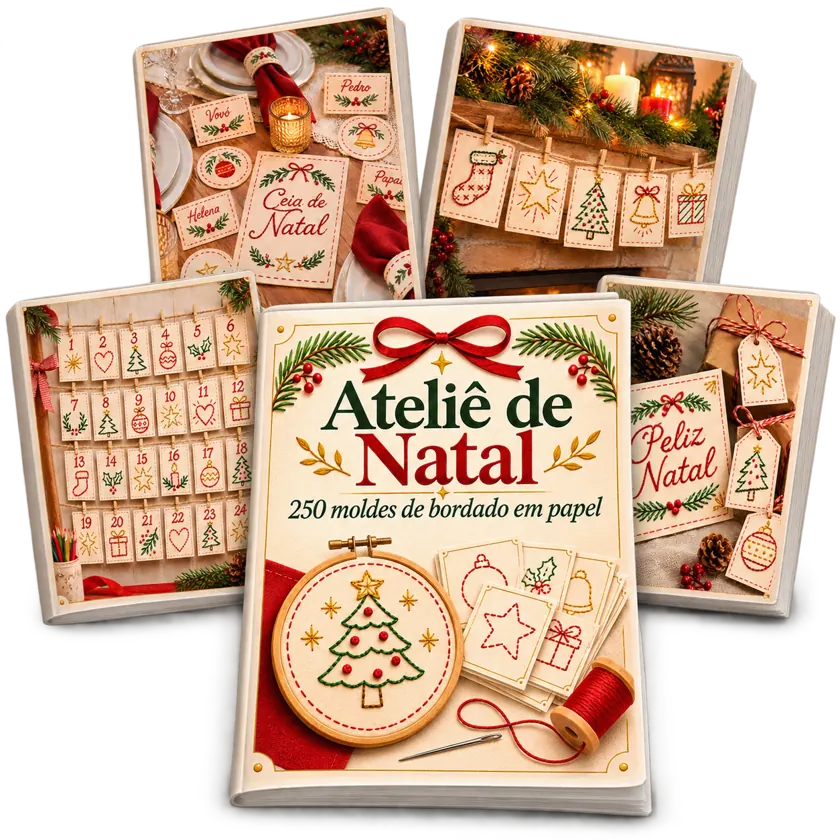
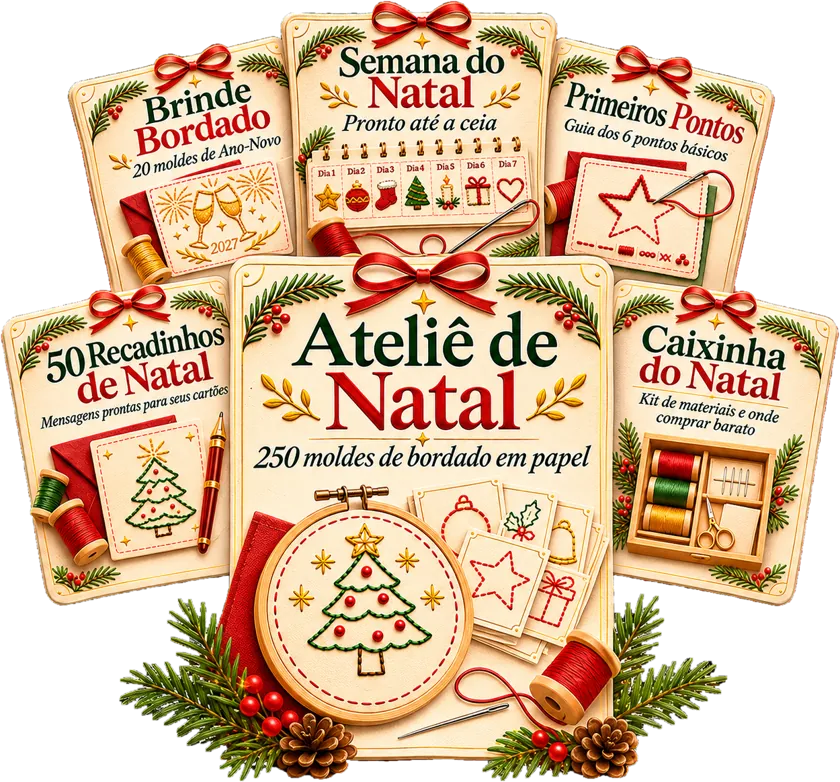
Novo mockup do kit com os 5 bônus no hero
Claude-Session: https://claude.ai/code/session_01To4oHDQjJihMuBAJ8cJRSQ

diff --git a/index.html b/index.html
@@ -42,8 +42,8 @@
     <p class="badge"><span aria-hidden="true"></span>Ateliê de Natal 2026</p>
     <h1>Transforme seu Natal com bordados lindos <span class="hl">feitos por você!</span>&nbsp;🎄</h1>
     <figure class="hero-media">
-      <img src="assets/img/mockup-produto.webp" width="640" height="640" fetchpriority="high" alt="Mockup do kit Ateliê de Natal: livro com 250 moldes de bordado em papel e as 4 sessões">
-      <figcaption class="seal"><b>250</b> moldes<br><i>+ 5 bônus</i></figcaption>
+      <img src="assets/img/mockup-produto.webp" width="840" height="782" fetchpriority="high" alt="Mockup do kit Ateliê de Natal com 250 moldes de bordado em papel e os 5 bônus">
+      <figcaption class="seal"><b>250</b> moldes<br><i>+ 5 bônus<br>exclusivos</i></figcaption>
     </figure>
     <div class="hero-cta">
       <ul class="gains">

diff --git a/assets/css/style.css b/assets/css/style.css
@@ -356,3 +356,5 @@ details p{margin:0 0 16px;color:var(--muted)}
 .users .stars{color:var(--gold);letter-spacing:1px}
 .users{flex-wrap:nowrap;white-space:nowrap;font-size:clamp(.74rem,3.4vw,.9rem);padding:6px 12px;gap:6px}
 .users b{margin-right:-2px}
+.seal{width:110px;height:110px;font-size:.74rem;bottom:2%}
+.seal i{font-size:.7rem}
